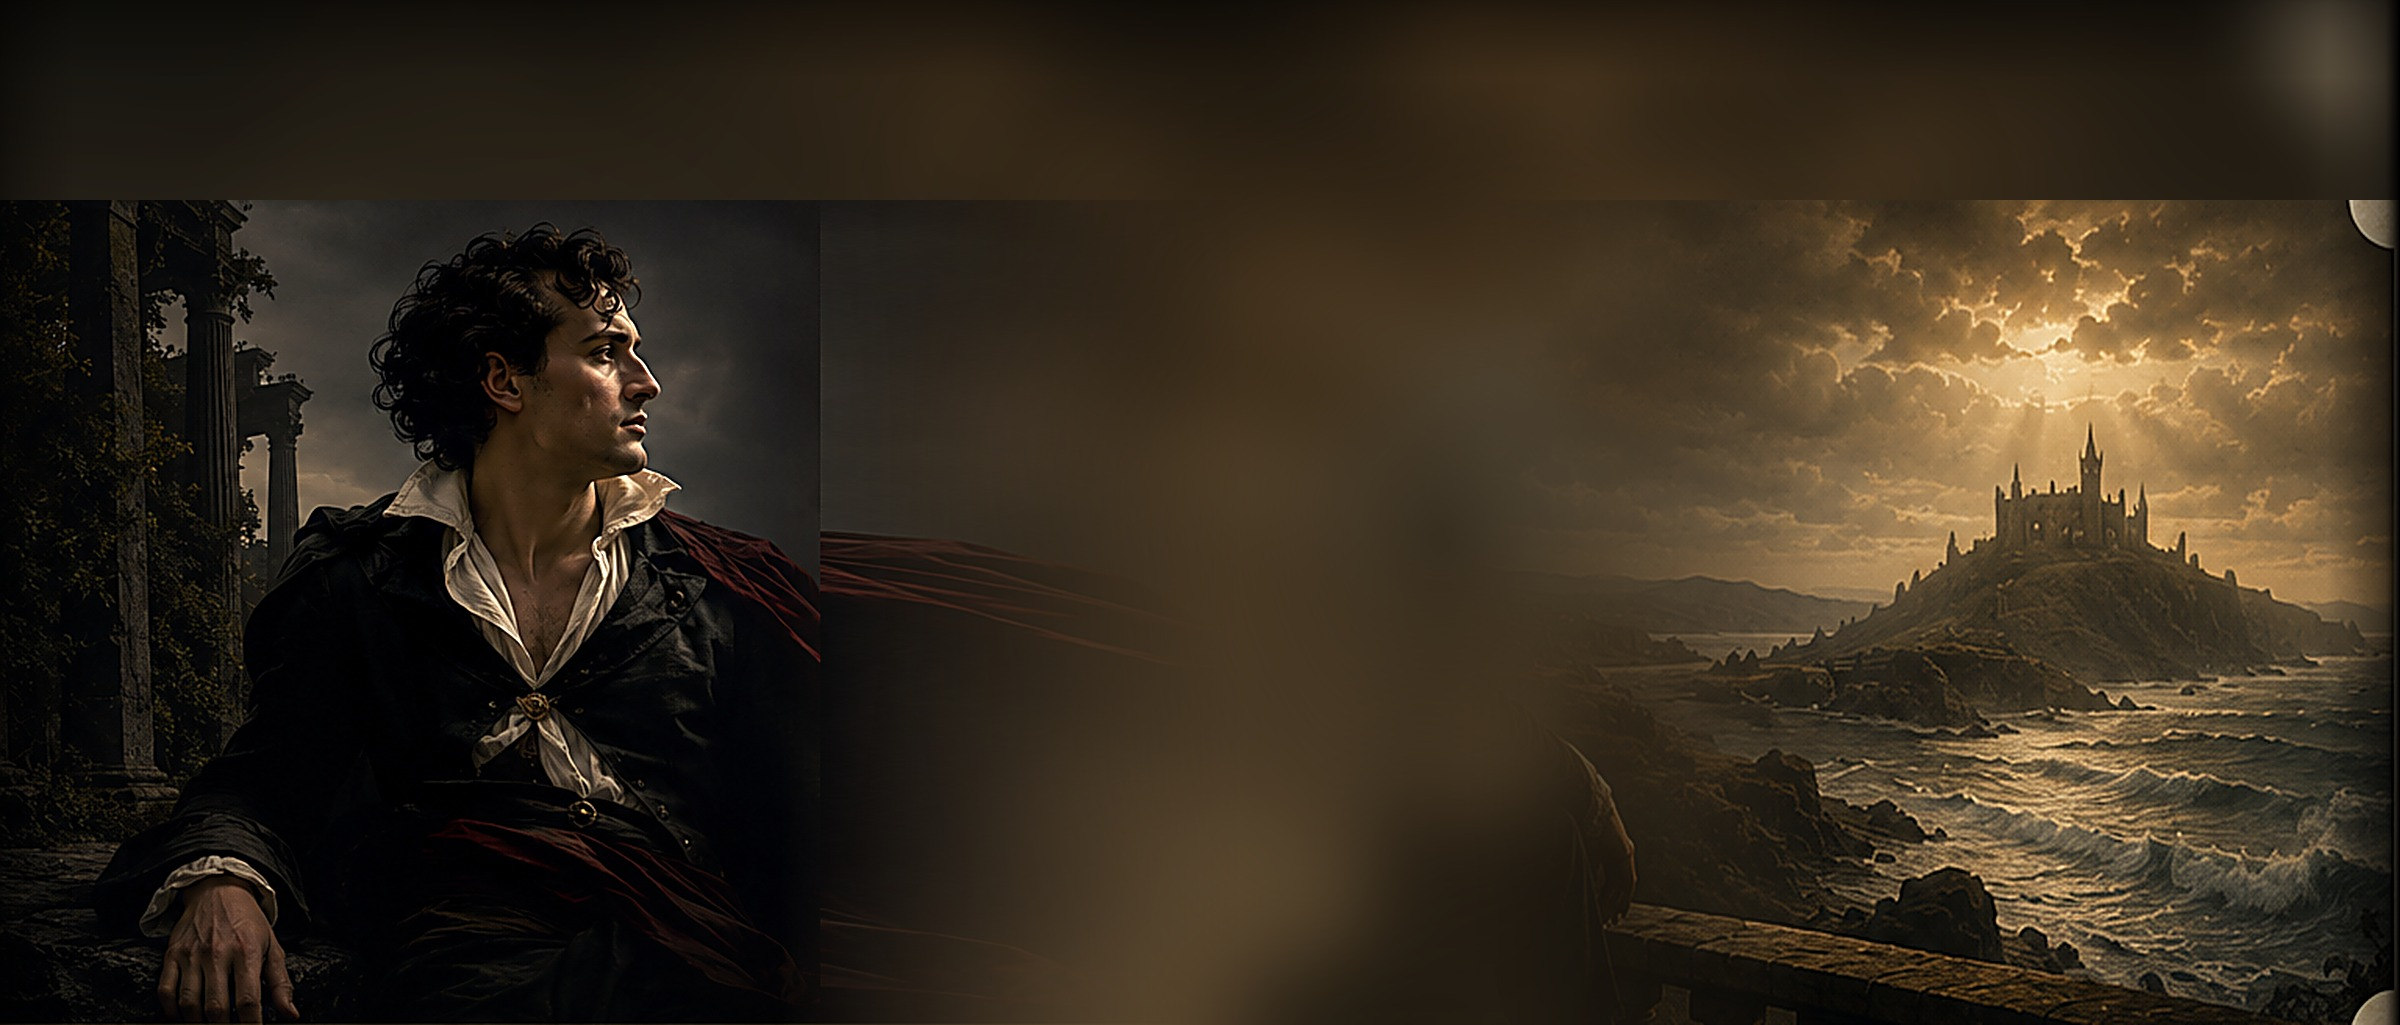
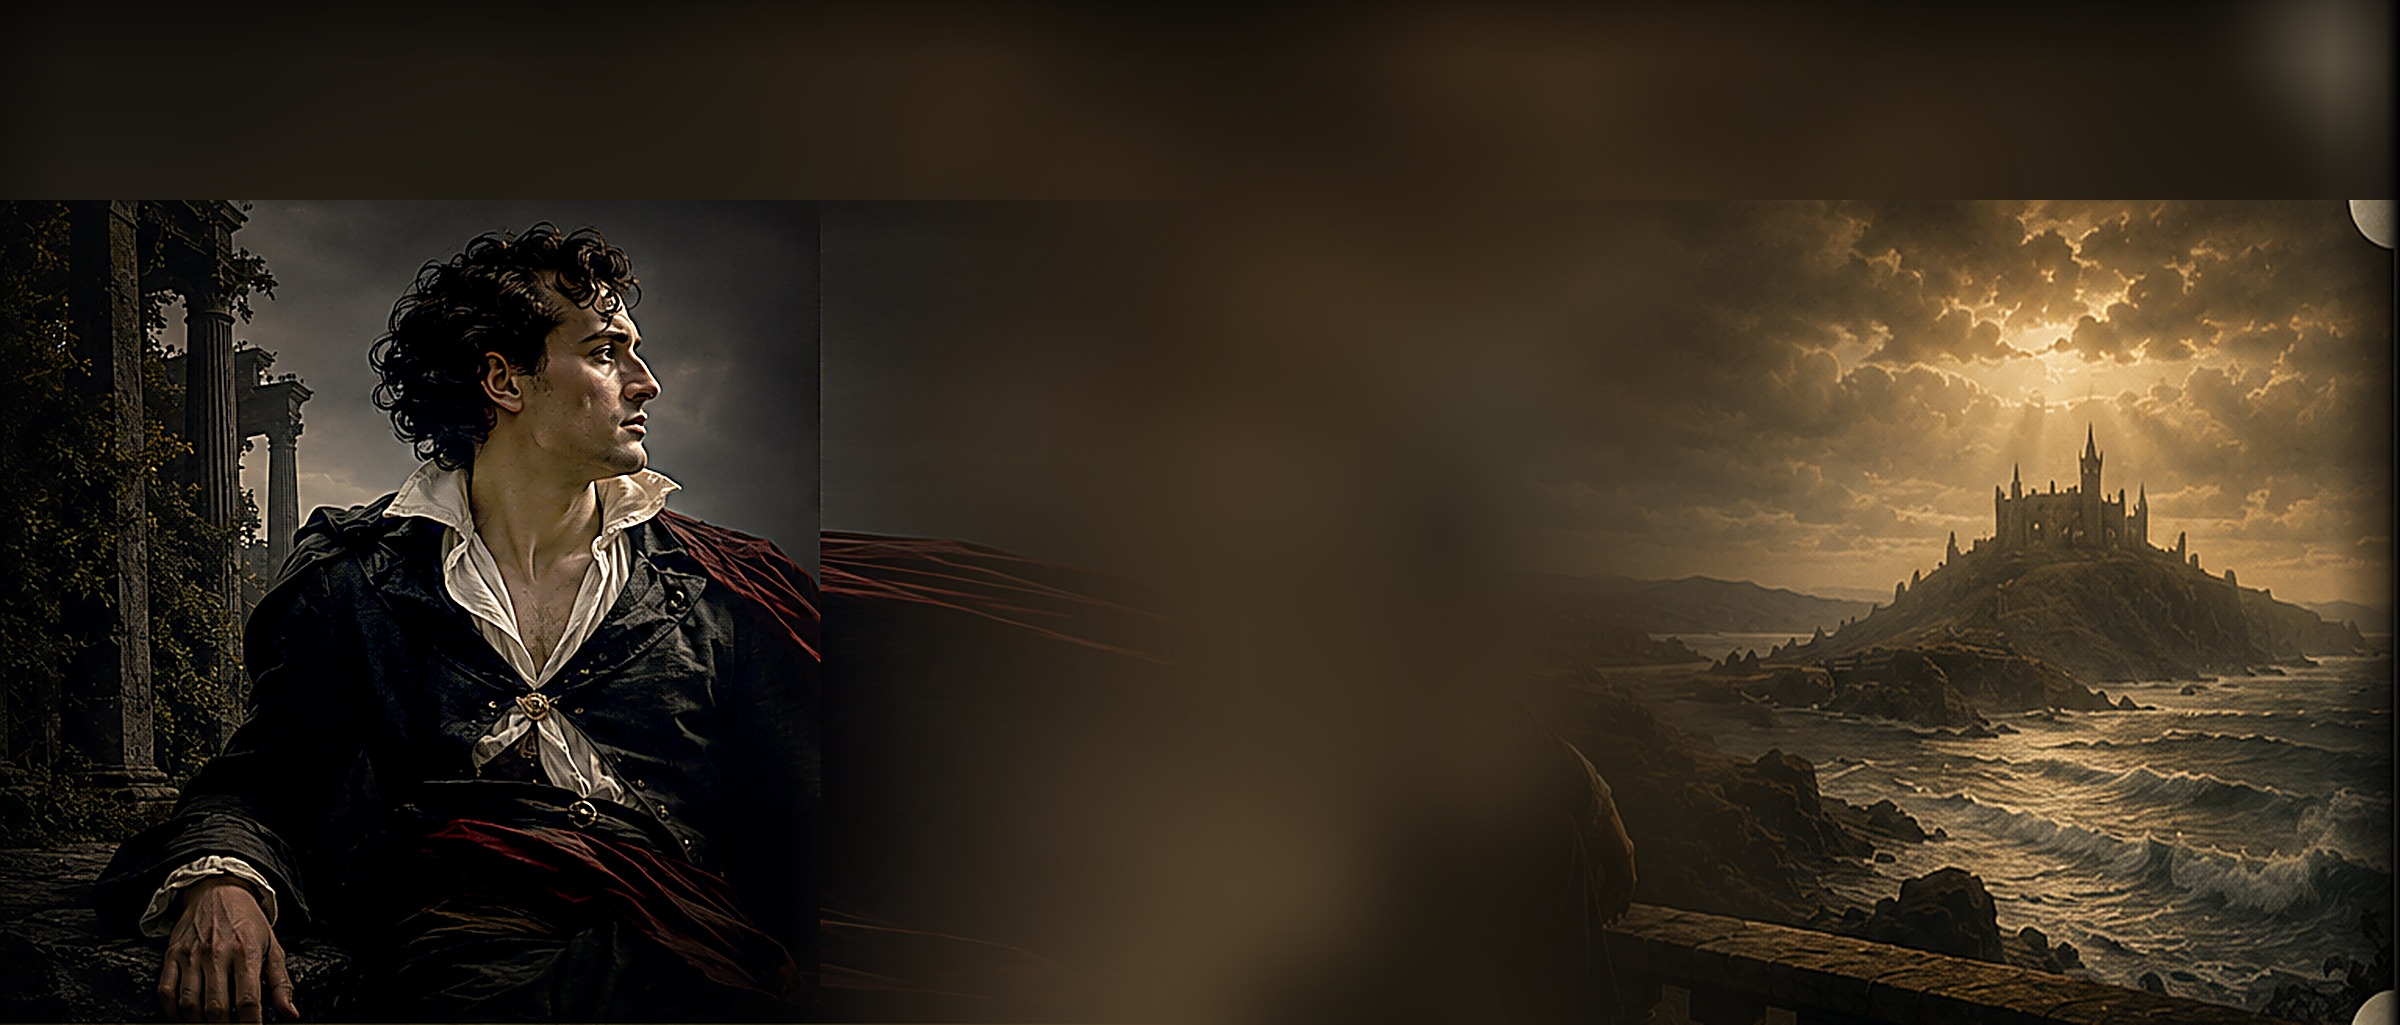
Add files via upload

Changed region(s): [[0.0312, 0.281, 0.3438, 0.8741], [0.0625, 0.281, 0.125, 0.3746], [0.0625, 0.8117, 0.125, 0.8741]]

diff --git a/index.html b/index.html
@@ -176,9 +176,15 @@ button{font:inherit;color:inherit}
   .nav::-webkit-scrollbar{display:none}
   .nav a{letter-spacing:.12em;font-size:.8rem;white-space:nowrap;flex:none}
 }
+@media (max-width:900px){
+  .hero-bg{background-position:26% center}
+}
 @media (max-width:560px){
-  .hero{min-height:calc(88svh - var(--bar))}
-  .hero-say{font-size:clamp(1.5rem,7.4vw,2.4rem);max-width:16ch}
+  .hero{min-height:calc(78svh - var(--bar))}
+  .hero-bg{background-position:30% center}
+  .hero-in{padding-top:34vh}
+  .hero-say{font-size:clamp(1.45rem,7vw,2.2rem);max-width:15ch;
+    text-shadow:0 2px 24px rgba(6,6,8,.96),0 0 60px rgba(6,6,8,.9)}
   .archead{min-height:12rem}
   .kfoot .brandcol{flex-direction:column;align-items:flex-start;gap:.75rem}
 }
@@ -192,9 +198,9 @@ main{position:relative;z-index:2;padding-top:var(--bar)}
 .centre{text-align:center}
 
 /* ══════════════════════ 6 · HOME ══════════════════════ */
-.hero{position:relative;min-height:calc(100svh - var(--bar));
+.hero{position:relative;min-height:calc(86svh - var(--bar));
   display:flex;flex-direction:column;align-items:center;justify-content:center;
-  text-align:center;padding:clamp(2rem,7vh,5rem) var(--gut) clamp(3rem,9vh,6rem);
+  text-align:center;padding:clamp(2rem,7vh,5rem) var(--gut) clamp(1.5rem,4vh,3rem);
   margin-top:calc(var(--bar) * -1);padding-top:calc(var(--bar) + clamp(2rem,7vh,5rem));
   isolation:isolate;overflow:hidden}
 .hero-bg{position:absolute;inset:0;z-index:-2;background:var(--void) center 62% / cover no-repeat;
@@ -202,7 +208,7 @@ main{position:relative;z-index:2;padding-top:var(--bar)}
 @keyframes heroIn{from{opacity:0;transform:scale(1.06)}to{opacity:1;transform:none}}
 .hero-bg::after{content:"";position:absolute;inset:0;
   background:radial-gradient(66% 78% at 50% 46%,rgba(9,9,11,.9) 0%,rgba(9,9,11,.55) 42%,transparent 70%),
-             linear-gradient(to bottom,rgba(9,9,11,.72) 0%,transparent 22%,transparent 62%,rgba(9,9,11,.96) 100%),
+             linear-gradient(to bottom,rgba(13,13,13,.72) 0%,transparent 20%,transparent 52%,rgba(13,13,13,.88) 88%,#0D0D0D 100%),
              linear-gradient(to right,rgba(9,9,11,.55),transparent 22%,transparent 78%,rgba(9,9,11,.55))}
 .hero-crest{width:clamp(5.5rem,11vw,9.5rem);margin:0 auto clamp(.75rem,2vh,1.4rem);
   filter:drop-shadow(0 6px 26px rgba(201,162,39,.34))}
@@ -231,7 +237,8 @@ main{position:relative;z-index:2;padding-top:var(--bar)}
 @keyframes cue{0%,100%{transform:scaleY(.4);transform-origin:top}50%{transform:scaleY(1);transform-origin:top}}
 
 /* section heading with filigree rules */
-.sec{padding:clamp(3rem,9vh,7rem) 0}
+.sec{padding:clamp(2.25rem,6vh,4.5rem) 0}
+.hero + .wrap .sec:first-child{padding-top:clamp(1.75rem,4.5vh,3rem)}
 .sec-head{display:flex;align-items:center;gap:1.5rem;margin-bottom:clamp(2rem,5vh,3.5rem)}
 .sec-head .ln{flex:1;height:1px;background:linear-gradient(to right,transparent,rgba(201,162,39,.42),transparent)}
 .sec-head h2{font-family:var(--display);font-weight:500;font-size:clamp(1.15rem,2.4vw,1.7rem);
@@ -267,7 +274,7 @@ main{position:relative;z-index:2;padding-top:var(--bar)}
 .spine{position:absolute;left:50%;top:0;bottom:0;width:64px;transform:translateX(-50%);
   z-index:40;pointer-events:none;
   background:linear-gradient(90deg,transparent,rgba(48,34,18,.5) 34%,rgba(24,16,8,.62) 50%,rgba(48,34,18,.5) 66%,transparent)}
-.book.single .spine,.book.single .base.l{display:none}
+.book.single .spine,.book.single .base.l,.book.single .ribbon{display:none}
 
 .leaf{position:absolute;top:0;right:0;width:var(--pw);height:100%;
   transform-origin:left center;transform-style:preserve-3d;--t:0;will-change:transform}
@@ -573,6 +580,8 @@ img[data-fallback]{opacity:0}
   .rnav{position:absolute;bottom:-.2rem;z-index:11}
   .rnav.prev{left:1rem}.rnav.next{right:1rem}
   .reader-bar{font-size:.74rem;letter-spacing:.1em}
+  .ribbon{height:100%}
+  .reader-stage{padding-bottom:3.2rem}
 }
 
 
@@ -1379,10 +1388,13 @@ async function mountEssay(){
 
   let pages = buildPages(mBody, illuminate(md(body)), pageHead(post, img));
   meas.remove();
-  if(pages.length % 2) pages.push("");           // books have even leaves
 
   BOOK.pages = pages;
-  BOOK.n = Math.max(1, Math.ceil((pages.length-1)/2));
+  // A spread turns two pages at a time and opens on 1|2, so the last turn is
+  // floor((n-1)/2). A single page turns one at a time, so leaf i simply carries
+  // page i on its front and page i+1 on its back.
+  BOOK.n = single ? Math.max(1, pages.length - 1)
+                  : Math.max(1, Math.floor((pages.length - 1) / 2));
   BOOK.turned = 0;
   BOOK.single = single;
   BOOK.post = post;
@@ -1398,8 +1410,9 @@ async function mountEssay(){
   const face = (n) => n>total || pages[n-1]===undefined ? "" :
     `<div class="pg paper"><div class="pg-body">${pages[n-1]}</div>${foot(n)}</div>`;
 
-  // page 1 sits on the left of the opening spread, as a printed book does:
-  // the static left page carries it, and leaf i carries pages 2i+2 / 2i+3.
+  // On a spread, page 1 sits on the static left panel and leaf i carries
+  // pages 2i+2 / 2i+3. On a phone there is no left panel, so leaf i carries
+  // page i+1 on the front and page i+2 on the back.
   const lBase = pagesEl.querySelector(".base.l .pg");
   if(lBase) lBase.innerHTML = `<div class="pg-body">${pages[0]||""}</div>${foot(1)}`;
   pagesEl.querySelectorAll(".leaf").forEach(l=>l.remove());
@@ -1409,9 +1422,11 @@ async function mountEssay(){
     const leaf = document.createElement("div");
     leaf.className = "leaf";
     leaf.dataset.i = i;
+    const nf = single ? i+1   : 2*i+2;
+    const nb = single ? i+2   : 2*i+3;
     leaf.innerHTML =
-      `<div class="side f">${face(2*i+2)}<div class="edge"></div><div class="sheen"></div><div class="gloss"></div></div>
-       <div class="side b">${face(2*i+3)}<div class="edge"></div><div class="sheen"></div><div class="gloss"></div></div>
+      `<div class="side f">${face(nf)}<div class="edge"></div><div class="sheen"></div><div class="gloss"></div></div>
+       <div class="side b">${face(nb)}<div class="edge"></div><div class="sheen"></div><div class="gloss"></div></div>
        <div class="peel" title="Drag to turn the page"></div>`;
     frag.appendChild(leaf);
     BOOK.leaves.push(leaf);
@@ -1434,11 +1449,11 @@ function zorder(){
   });
 }
 function updateBookUI(){
-  const first = BOOK.turned*2 + 1;
+  const total = BOOK.pages.length;
   const c = $("#pcount");
   if(c) c.textContent = BOOK.single
-    ? `${Math.min(first,BOOK.pages.length)} / ${BOOK.pages.length}`
-    : `${first}–${Math.min(first+1,BOOK.pages.length)} / ${BOOK.pages.length}`;
+    ? `${Math.min(BOOK.turned+1, total)} / ${total}`
+    : `${BOOK.turned*2+1}\u2013${Math.min(BOOK.turned*2+2, total)} / ${total}`;
   const pr = $("#rProg");
   if(pr) pr.style.width = ((BOOK.turned/Math.max(1,BOOK.n))*100).toFixed(1)+"%";
   const pv=$("#pPrev"), nx=$("#pNext");
